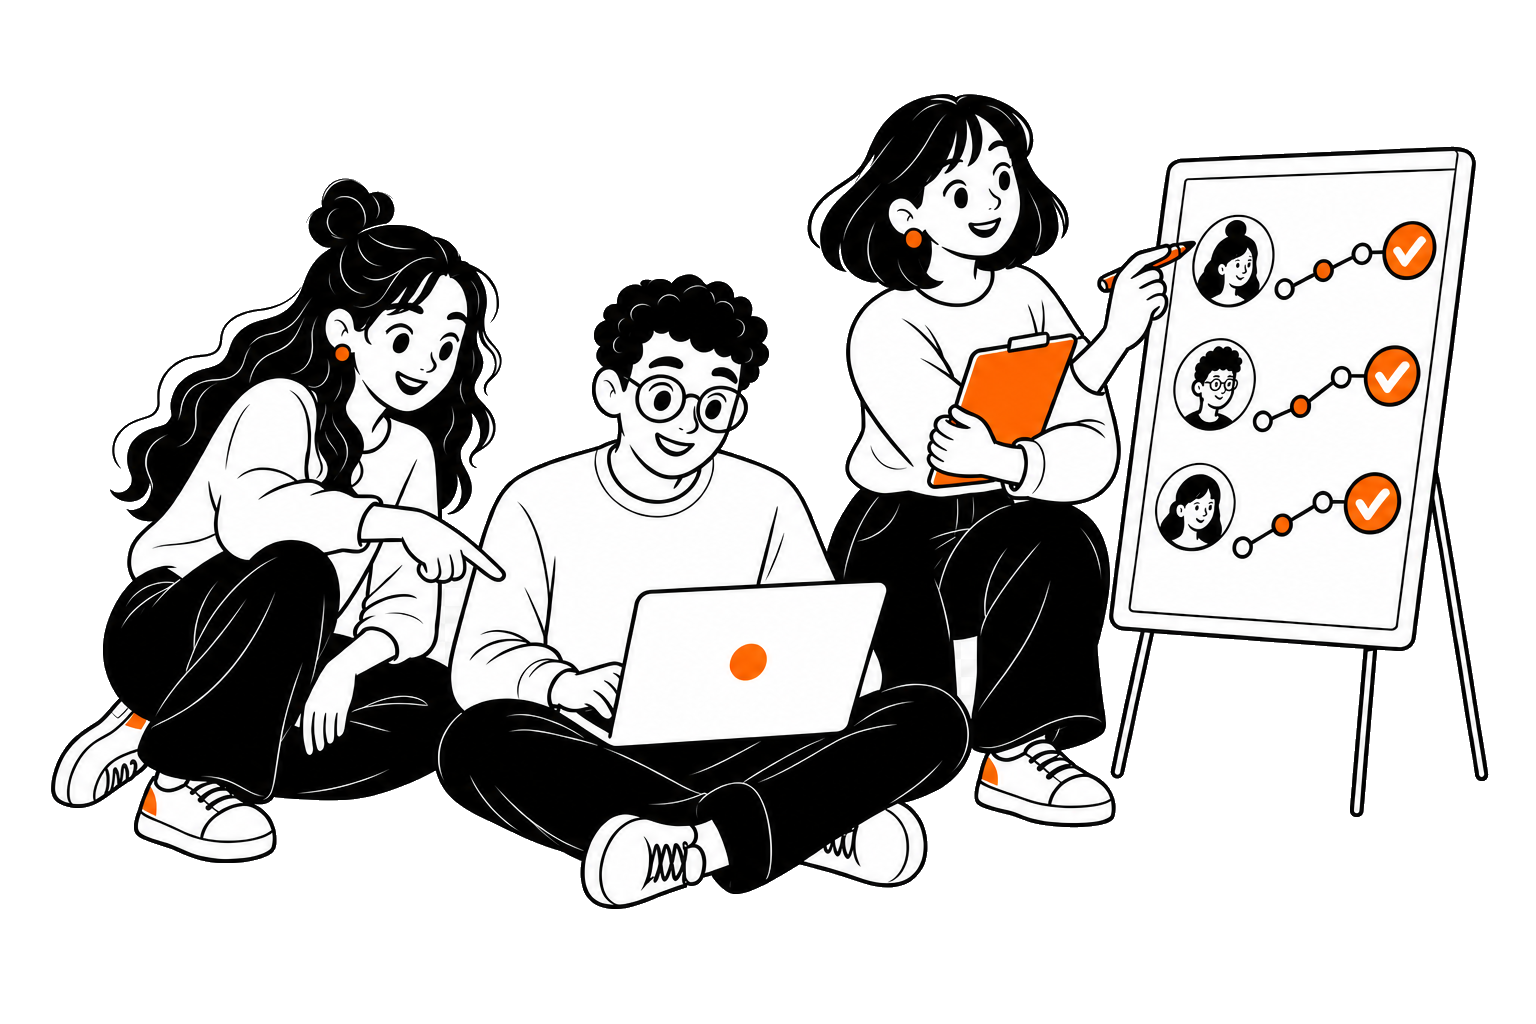
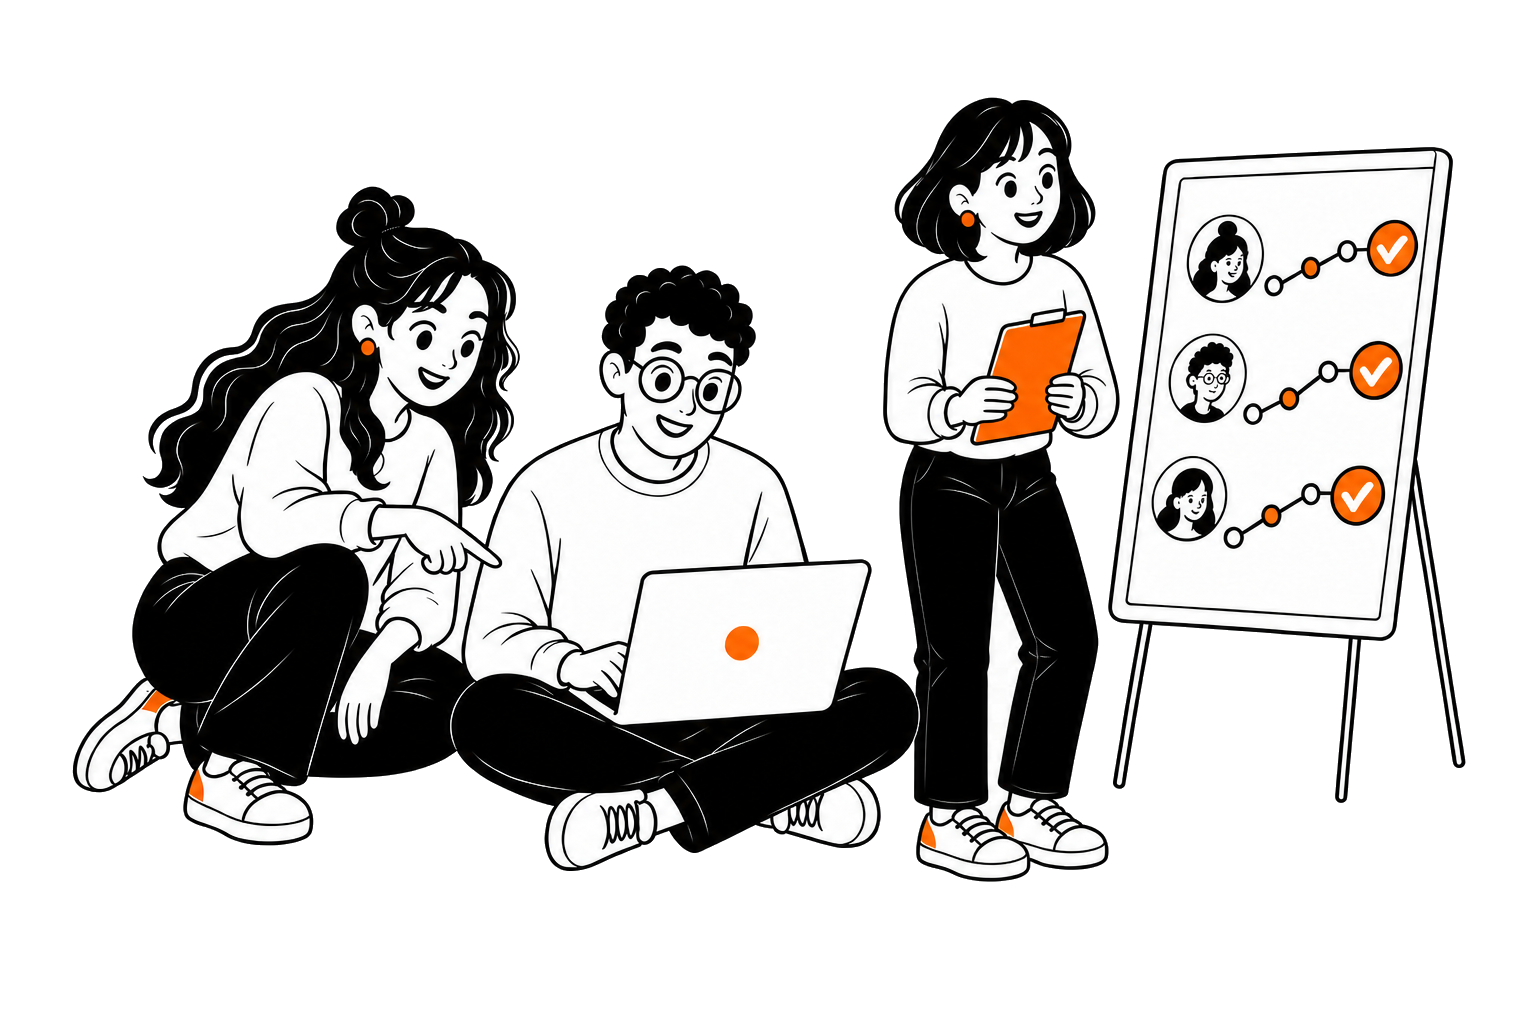
refine leaderboard illustration and about links

Changed region(s): [[0.0312, 0.0938, 0.9688, 0.9062]]

diff --git a/src/routes/$locale/about.tsx b/src/routes/$locale/about.tsx
@@ -8,7 +8,6 @@ import {
   Github,
   Lightbulb,
   Linkedin,
-  Youtube,
 } from 'lucide-react';
 import { useTranslation } from 'react-i18next';
 import { AboutHeroVisual } from '@/components/rebrand-visuals';
@@ -55,7 +54,6 @@ function AboutPage() {
           <div className="mt-7 flex flex-wrap gap-2">
             <SocialLink href="https://www.linkedin.com/in/ekkisyamsugiardi/" label={t('hero.linkedin')} icon={<Linkedin className="h-4 w-4" aria-hidden="true" />} />
             <SocialLink href="https://github.com/mihaamiharu" label={t('hero.github')} icon={<Github className="h-4 w-4" aria-hidden="true" />} />
-            <SocialLink href="https://www.youtube.com/@TestingWithEkki" label={t('hero.youtube')} icon={<Youtube className="h-4 w-4" aria-hidden="true" />} />
           </div>
         </div>
         <AboutHeroVisual />
